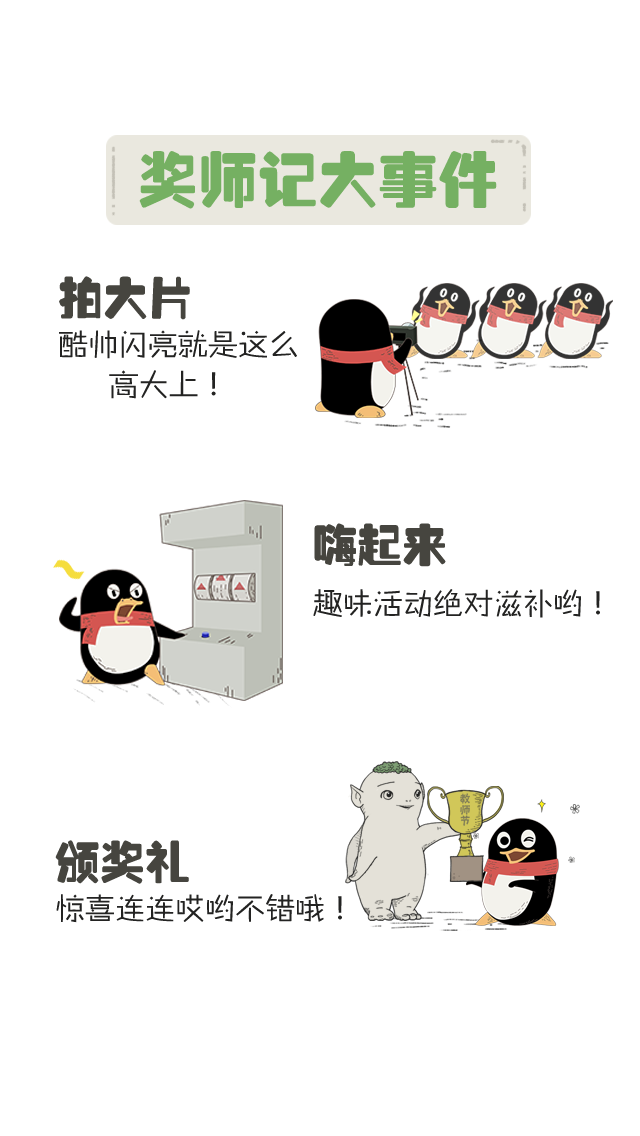
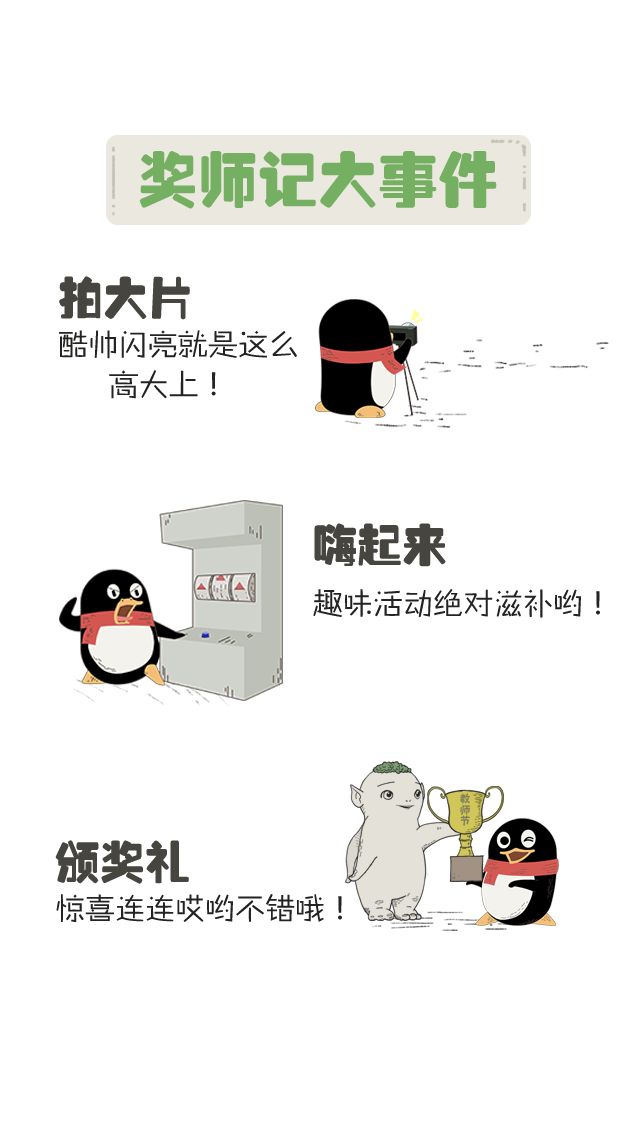
8.31
8.31

Changed region(s): [[0.625, 0.2465, 0.9688, 0.3389], [0.0938, 0.493, 0.125, 0.5238]]

diff --git a/teacher/style.css b/teacher/style.css
@@ -74,9 +74,10 @@ body,html{width:100%;height:100%; position:relative;background: url("img/bg.jpg"
     background: #aaaaaa;
     position: relative;
     margin-top: 10px;
+    border: 1px solid #000000;
 }
 #loading_bar span{
-    display: block;position: absolute;top:0;left: 0;width: 0;height:100%;border-radius:10px;background: #434343;
+    display: block;position: absolute;top:0;left: 0;width: 0;height:100%;border-radius:10px;background: #9e7575;
     z-index: 10;
 }
 #loading_process {
@@ -92,15 +93,21 @@ body,html{width:100%;height:100%; position:relative;background: url("img/bg.jpg"
 
 }
 .screen {position: absolute; left:0; top:0; width:100%; -webkit-transform-style: preserve-3d; -webkit-backface-visibility: hidden; -webkit-transition: all 800ms ease-in-out;}
-.layout {position: relative;width: 100%;height: 100%;background: url("") no-repeat center;background-size: 100% 100%;-webkit-perspective: 400px}
+.layout {position: relative;width: 100%;height: 100%;background: url("") no-repeat center;background-size: auto 100%;-webkit-perspective: 400px}
+.layout.page7 {position: relative;width: 100%;height: 100%;background: url("") no-repeat center;background-size: cover}
+.layout.page7 .button{position: absolute;left: 50%;-webkit-transform:translate(-50%,0);bottom: 30%;height: 7%;}
 .layout .animate div {position: absolute; left:0; top:0; width:100%; height:100%; background: url("") no-repeat center; background-size: auto 100%; }
-.active .animate.push div {-webkit-animation: page5 800ms 800ms ease forwards;}
+.active .animate.push div {-webkit-animation: push 600ms 800ms ease infinite;}
 .active .animate.slideInLeft div {opacity: 0;-webkit-animation: slideInLeft 800ms 800ms ease forwards;}
 .active .animate.slideInRight div {opacity: 0;-webkit-animation: slideInRight 800ms 1200ms ease forwards;}
 .active .animate.fadeIn div {opacity:0;-webkit-animation: fadeIn 800ms 2000ms ease forwards;}
 .active .animate.seal div {opacity:0;-webkit-animation: seal 800ms 2600ms ease forwards;}
 .animate.seal div {opacity:0;}
-.active .animate.door div {-webkit-animation: door 500ms 800ms linear forwards;}
+.active .animate.photo div {-webkit-animation: photo 1000ms 800ms ease infinite;}
+.active .animate.belt div {-webkit-animation: belt 1500ms 800ms ease infinite;}
+.active .animate.star div {-webkit-animation: star 1000ms 800ms ease infinite;}
+.active .animate.door div {-webkit-animation: door 1000ms 800ms ease forwards;}
+.active .animate.show div {opacity:0;-webkit-animation: show 800ms 800ms ease forwards;}
 .swipeUp {
     position: absolute;
     left: 50%;
@@ -159,6 +166,19 @@ body,html{width:100%;height:100%; position:relative;background: url("img/bg.jpg"
         -webkit-transform: translate3d(0,0,-50px)
     }
 }
+@-webkit-keyframes photo {
+    0% {opacity: 1}
+    100% {background-image: url("img/photo1.png")}
+}
+@-webkit-keyframes belt {
+    0% {opacity: 1}
+    50% {background-image: url("img/belt2.png")}
+    100% {background-image: url("img/belt3.png")}
+}
+@-webkit-keyframes star {
+    0% {opacity: 1}
+    100% {background-image: url("img/star2.png")}
+}
 @-webkit-keyframes door {
     0% {
         opacity: 1
@@ -176,7 +196,11 @@ body,html{width:100%;height:100%; position:relative;background: url("img/bg.jpg"
         background-image: url("img/door5.png")
     }
 }
-@-webkit-keyframes page5 {
+@-webkit-keyframes push {
     0% {opacity: 1}
     100% {background-image: url("img/fx.png")}
+}
+@-webkit-keyframes show {
+    0% {opacity: 0;background-size: auto 50%;}
+    100% {opacity: 1;background-size: auto 100%;}
 }

diff --git a/teacher/main.js b/teacher/main.js
@@ -125,7 +125,11 @@ $(function(){
             },
             {
                 'bg': 'img/page3.png',
-                'animate': []
+                'animate': [
+                    {'name':'photo', 'imgs':['img/photo.png']},
+                    {'name':'belt', 'imgs':['img/belt1.png']},
+                    {'name':'star', 'imgs':['img/star1.png']}
+                ]
             },
             {
                 'bg': 'img/page4.png',
@@ -145,7 +149,9 @@ $(function(){
             },
             {
                 'bg': 'img/page7.png',
-                'animate': []
+                'animate': [
+                    {'name':'show', 'imgs':['img/welcome.png']}
+                ]
             }
 
         ],
@@ -177,6 +183,8 @@ $(function(){
                 h+='</div>';
             }
             $('.screen').append(h);
+            var btn = '<a href="https://hr.m.tencent.com/wechatlearning/activity/actdetails.php?ActId=76384"><img class="button" src="img/button.png"></a>';
+            $(".page7").append(btn);
         },
         page: function(){
             var _this = this;

diff --git a/teacher/index.html b/teacher/index.html
@@ -6,9 +6,9 @@
     <meta http-equiv="X-UA-Compatible" content="IE=edge,chrome=1" />
     <meta name="viewport" content="width=device-width, initial-scale=1.0, user-scalable=no"/>
     <meta name="format-detection"content="telephone=no">
-    <title>交换生</title>
-    <meta name="description" content="交换生" />
-    <meta itemprop="name" content="交换生_腾讯新闻_腾讯网"/>
+    <title>OMG奖师记-因为有你，所以精彩</title>
+    <meta name="description" content="OMG奖师记-因为有你，所以精彩" />
+    <meta itemprop="name" content="OMG奖师记_腾讯新闻_腾讯网"/>
     <meta itemprop="image" content="http://mat1.gtimg.com/news/2015/zt/letter/img/share_w.png" />
     <meta name="author" content="v_ychmao"/>
     <link rel="stylesheet" href="style.css">
